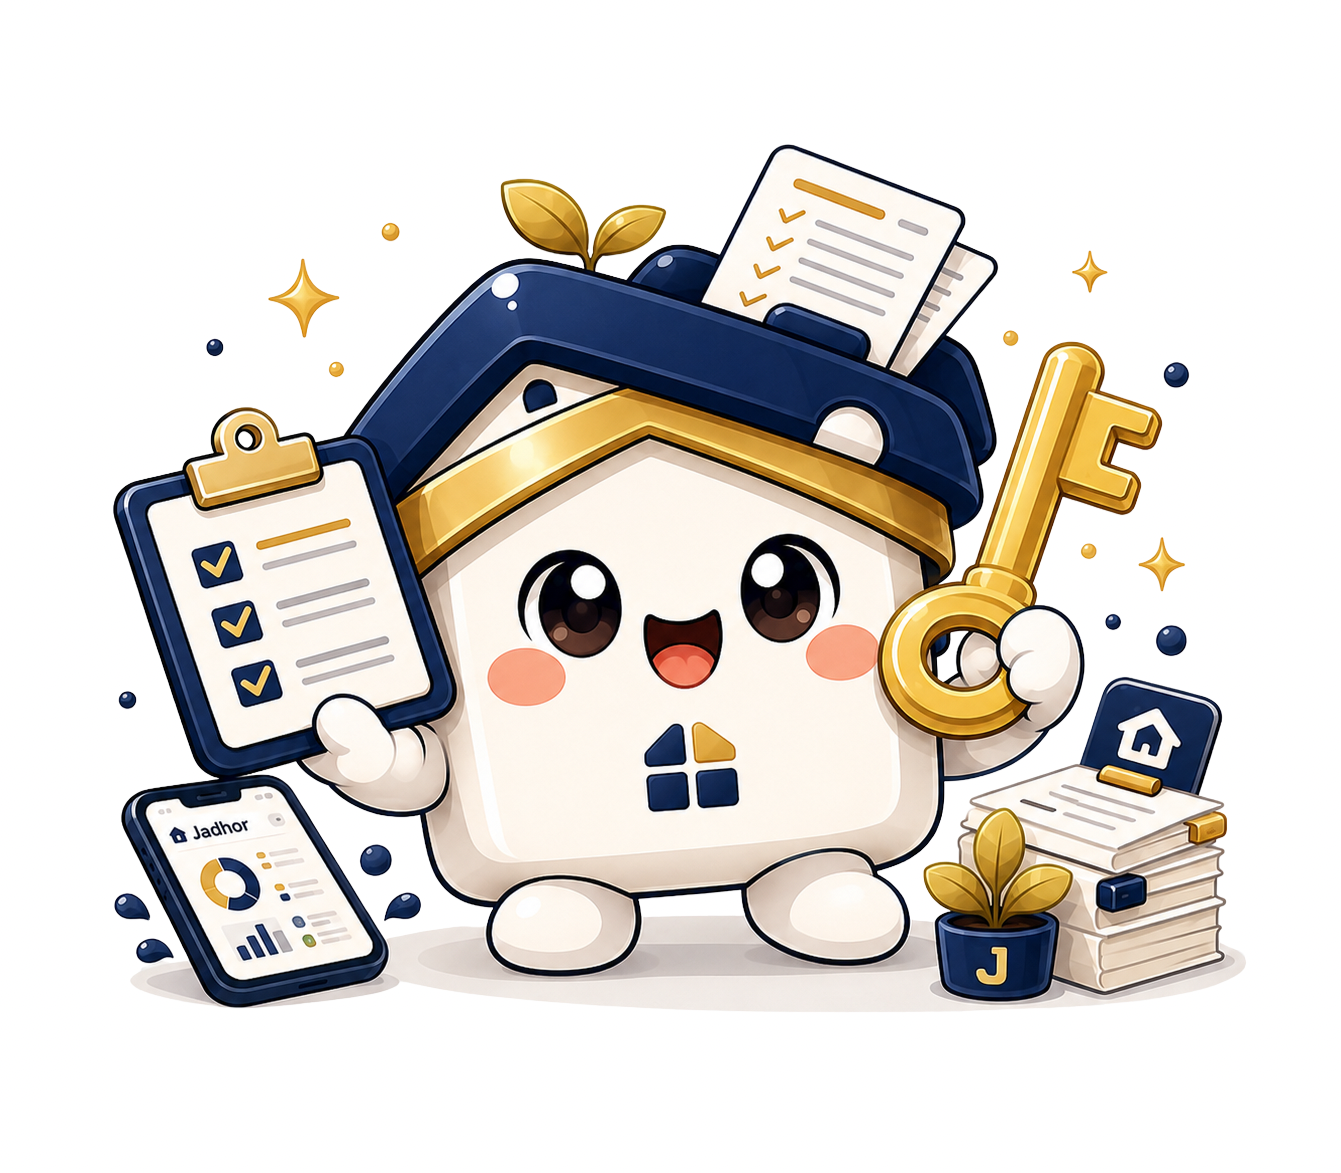
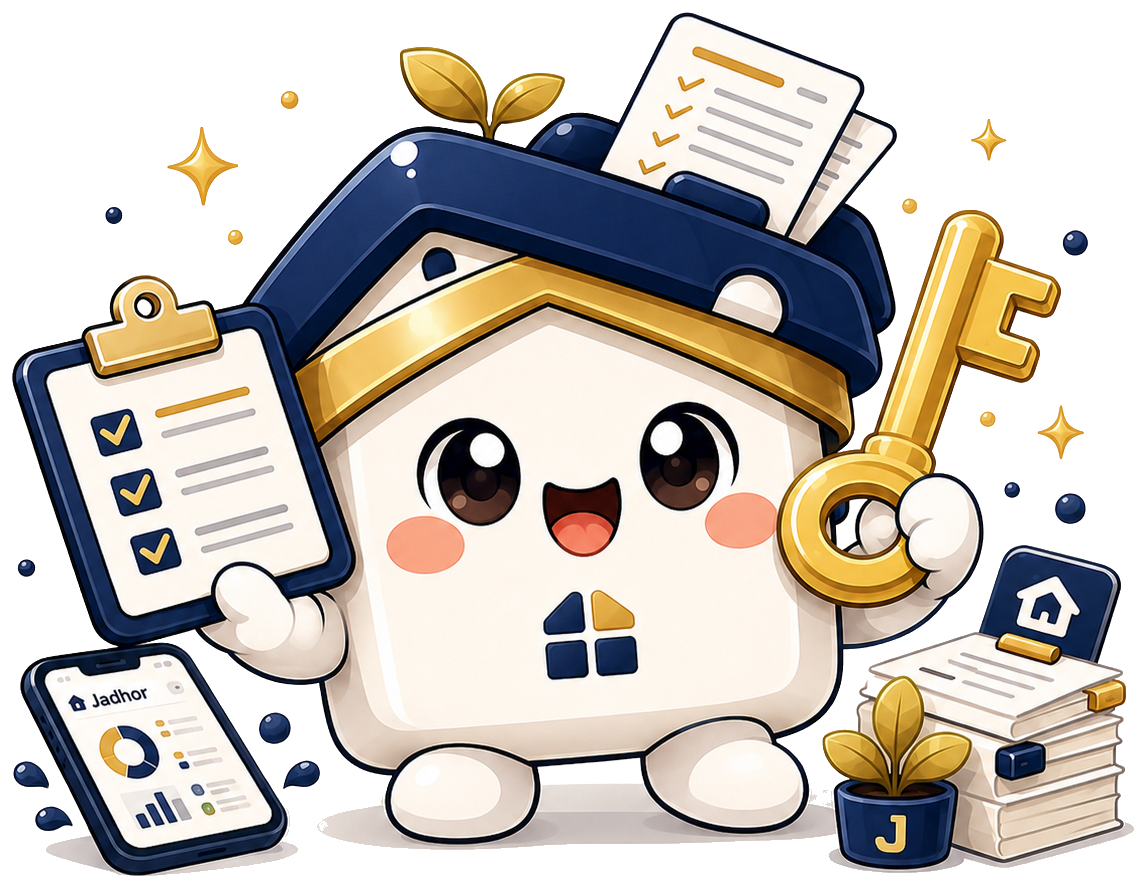
feat(hero): ลบพื้นหลังขาว mascot-hero + ขยายใหญ่แบบ iCloud
- flood-fill ลบพื้นหลังขาว → โปร่งใส (1146x888), เพิ่ม scripts/remove-bg-hero.js
- ขยายมาสคอต hero: w-64 → md:w-[420px] กลมกลืนพื้นเว็บแบบ icloud.com

diff --git a/scripts/remove-bg-hero.js b/scripts/remove-bg-hero.js
@@ -1,0 +1,81 @@
+// ลบพื้นหลังขาวของ mascot-hero.png ด้วย flood-fill จากขอบ
+// ตัวมาสคอตขาวถูกเส้นขอบกรมท่ากั้นไว้ จึงไม่ถูกลบ
+// รัน: node scripts/remove-bg-hero.js
+const sharp = require("sharp");
+const path = require("path");
+
+const SRC = path.resolve(__dirname, "..", "public", "images", "mascot-hero.png");
+const OUT = SRC; // เขียนทับ
+const TOL = 60; // tolerance สีพื้นหลัง (พื้นหลังขาวล้วน เผื่อ anti-alias/เงา)
+
+function dist2(r, g, b, r2, g2, b2) {
+  const dr = r - r2, dg = g - g2, db = b - b2;
+  return dr * dr + dg * dg + db * db;
+}
+
+(async () => {
+  const { data, info } = await sharp(SRC)
+    .ensureAlpha()
+    .raw()
+    .toBuffer({ resolveWithObject: true });
+  const { width: W, height: H, channels } = info;
+  const tol2 = TOL * TOL;
+
+  // สีพื้นหลัง = เฉลี่ย 4 มุม
+  const corners = [[0, 0], [W - 1, 0], [0, H - 1], [W - 1, H - 1]];
+  let br = 0, bg = 0, bb = 0;
+  for (const [x, y] of corners) {
+    const i = (y * W + x) * channels;
+    br += data[i]; bg += data[i + 1]; bb += data[i + 2];
+  }
+  br /= 4; bg /= 4; bb /= 4;
+
+  const alpha = new Uint8Array(W * H).fill(255);
+  const visited = new Uint8Array(W * H);
+  const stack = [];
+  const pushIf = (x, y) => {
+    if (x < 0 || y < 0 || x >= W || y >= H) return;
+    const p = y * W + x;
+    if (visited[p]) return;
+    visited[p] = 1;
+    const i = p * channels;
+    if (dist2(data[i], data[i + 1], data[i + 2], br, bg, bb) <= tol2) {
+      alpha[p] = 0;
+      stack.push(p);
+    }
+  };
+  for (let x = 0; x < W; x++) { pushIf(x, 0); pushIf(x, H - 1); }
+  for (let y = 0; y < H; y++) { pushIf(0, y); pushIf(W - 1, y); }
+  while (stack.length) {
+    const p = stack.pop();
+    const x = p % W, y = (p / W) | 0;
+    pushIf(x - 1, y); pushIf(x + 1, y); pushIf(x, y - 1); pushIf(x, y + 1);
+  }
+
+  // เขียน alpha กลับ
+  for (let p = 0; p < W * H; p++) data[p * channels + 3] = alpha[p];
+
+  // trim bbox ของพิกเซลทึบ
+  let minX = W, minY = H, maxX = 0, maxY = 0;
+  for (let y = 0; y < H; y++) {
+    for (let x = 0; x < W; x++) {
+      if (alpha[y * W + x] > 16) {
+        if (x < minX) minX = x; if (x > maxX) maxX = x;
+        if (y < minY) minY = y; if (y > maxY) maxY = y;
+      }
+    }
+  }
+  const pad = 12;
+  minX = Math.max(0, minX - pad); minY = Math.max(0, minY - pad);
+  maxX = Math.min(W - 1, maxX + pad); maxY = Math.min(H - 1, maxY + pad);
+  const cw = maxX - minX + 1, ch = maxY - minY + 1;
+
+  await sharp(data, { raw: { width: W, height: H, channels } })
+    .extract({ left: minX, top: minY, width: cw, height: ch })
+    .png({ compressionLevel: 9 })
+    .toFile(OUT + ".tmp.png");
+
+  // ย้ายทับ
+  require("fs").renameSync(OUT + ".tmp.png", OUT);
+  console.log(`✓ ลบพื้นหลังเสร็จ → ${cw}x${ch}`);
+})();

diff --git a/src/app/page.tsx b/src/app/page.tsx
@@ -148,10 +148,10 @@ export default async function Home() {
             <Image
               src="/images/mascot-hero.png"
               alt="มาสคอต JadHor"
-              width={1341}
-              height={1173}
+              width={1146}
+              height={888}
               priority
-              className="mx-auto w-36 drop-shadow-[0_16px_36px_rgba(0,0,0,0.14)] md:w-52"
+              className="mx-auto w-64 drop-shadow-[0_20px_44px_rgba(0,0,0,0.12)] sm:w-80 md:w-[420px]"
             />
             <h1 className="mt-7 text-[44px] font-semibold leading-[1.05] tracking-[-0.03em] md:text-[64px]">
               JadHor OS
